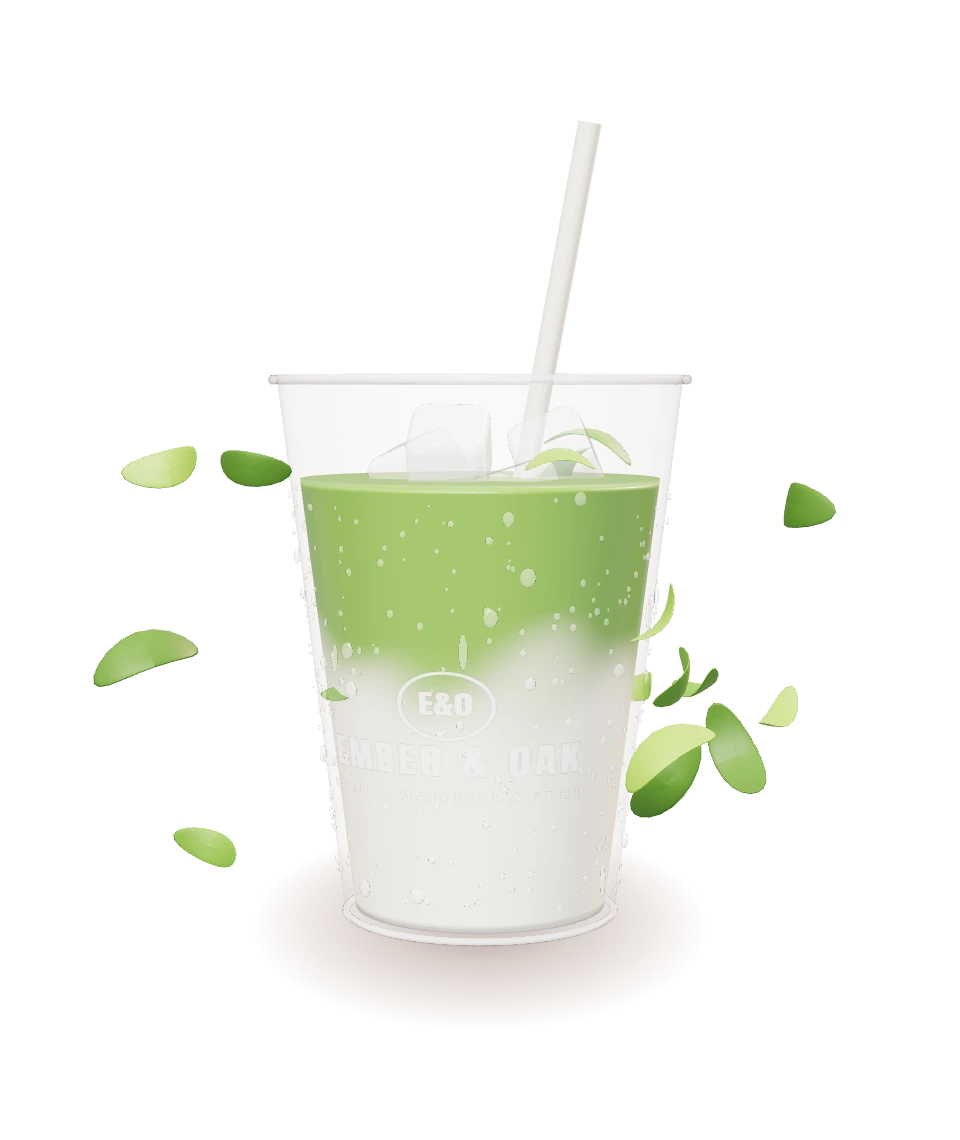
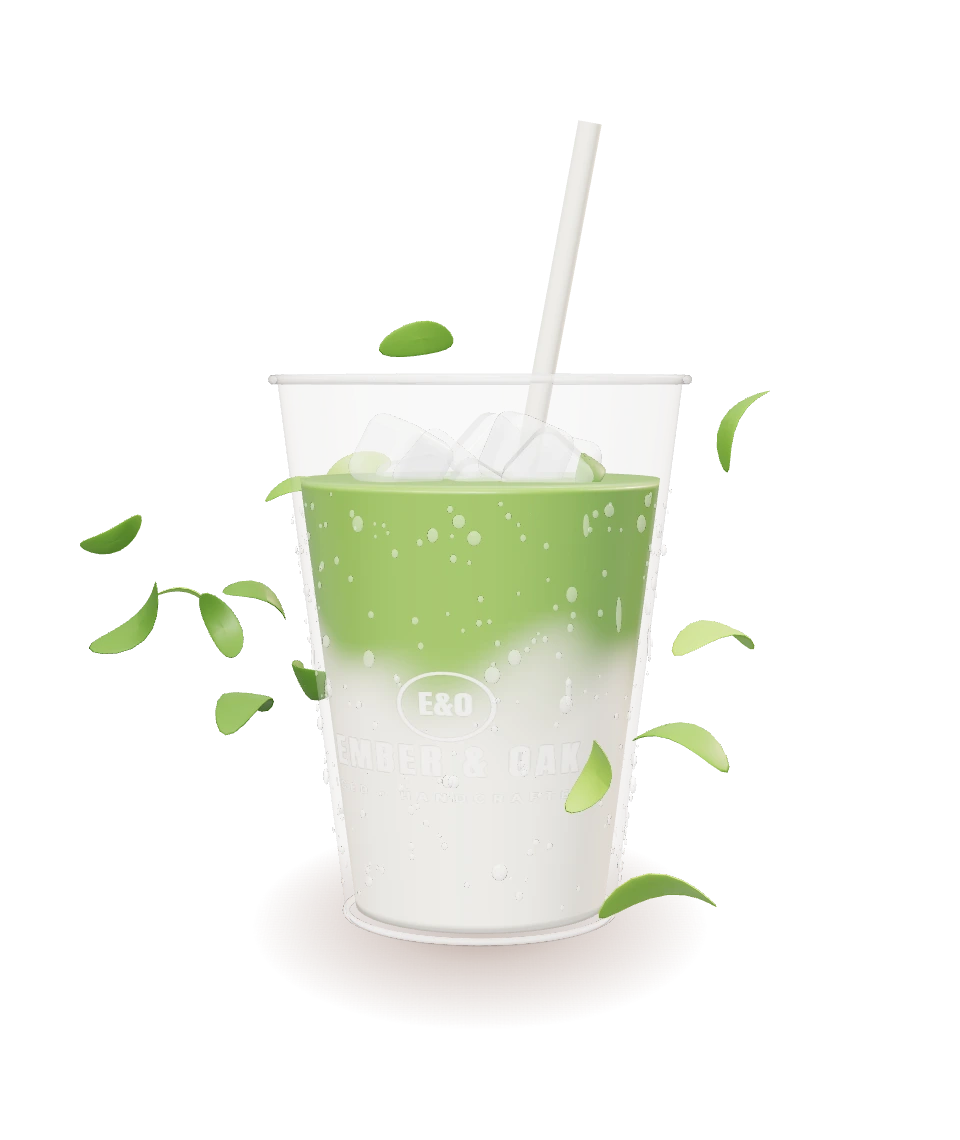
Ice drop and piped whipped cream animations, more ice
- 8 ice cubes (up from 5). On a drink change the old ice clears, then
  fresh cubes tumble in one by one, bounce into a pile on the bottom,
  and lift off to float as the drink pours in
- Whipped cream is piped: a soft base appears, then a star-ridged bead
  winds up the helix to the peak, then the drizzle lands. The swirl is
  now a TubeGeometry with nozzle ridges so it can be drawn progressively
- Carousel auto-advance waits until the current pour has finished
- Drink images re-rendered with the new ice

diff --git a/scene.js b/scene.js
@@ -246,16 +246,13 @@ function foamGeometry() {
   return g;
 }
 
+const WHIP_SEGMENTS = 260, WHIP_RADIAL = 24, WHIP_R = 0.1;
+const whipTaper = (t) => 1 - 0.35 * t * t; // the bead thins toward the peak
+
 function whipGeometry() {
-  // Piped cream: a star-shaped profile extruded along a narrowing helix.
-  const star = new THREE.Shape();
-  const P = 8;
-  for (let i = 0; i <= P * 2; i++) {
-    const a = (i / (P * 2)) * Math.PI * 2;
-    const r = i % 2 ? 0.075 : 0.11;
-    const x = Math.cos(a) * r, y = Math.sin(a) * r;
-    if (i === 0) star.moveTo(x, y); else star.lineTo(x, y);
-  }
+  // Piped cream: a tube along a narrowing helix, with star-nozzle ridges
+  // pushed into it. TubeGeometry builds its triangles in order along the
+  // path, so the swirl can be "piped" by growing the draw range.
   const pts = [];
   const TURNS = 3.2, N = 160;
   for (let i = 0; i <= N; i++) {
@@ -265,10 +262,30 @@ function whipGeometry() {
     pts.push(new THREE.Vector3(Math.cos(a) * r, 0.08 + t * 0.5, Math.sin(a) * r));
   }
   const curve = new THREE.CatmullRomCurve3(pts);
-  const g = new THREE.ExtrudeGeometry(star, { steps: 320, bevelEnabled: false, extrudePath: curve });
+  const g = new THREE.TubeGeometry(curve, WHIP_SEGMENTS, WHIP_R, WHIP_RADIAL, false);
+  const p = g.attributes.position, n = g.attributes.normal;
+  const v = new THREE.Vector3(), nv = new THREE.Vector3();
+  for (let i = 0; i < p.count; i++) {
+    const seg = Math.floor(i / (WHIP_RADIAL + 1)), rad = i % (WHIP_RADIAL + 1);
+    v.fromBufferAttribute(p, i);
+    nv.fromBufferAttribute(n, i);
+    const center = v.clone().addScaledVector(nv, -WHIP_R);
+    const ridge = 1 + 0.28 * Math.cos((rad / WHIP_RADIAL) * Math.PI * 2 * 8); // 8-point star nozzle
+    v.copy(center).addScaledVector(nv, WHIP_R * ridge * whipTaper(seg / WHIP_SEGMENTS));
+    p.setXYZ(i, v.x, v.y, v.z);
+  }
+  g.computeVertexNormals();
   g.userData.curve = curve;
   return g;
 }
+
+const easeOutBounce = (x) => {
+  const n = 7.5625, d = 2.75;
+  if (x < 1 / d) return n * x * x;
+  if (x < 2 / d) return n * (x -= 1.5 / d) * x + 0.75;
+  if (x < 2.5 / d) return n * (x -= 2.25 / d) * x + 0.9375;
+  return n * (x -= 2.625 / d) * x + 0.984375;
+};
 
 function drizzleOnFoam(foamTop, rTop) {
   // zig-zag lines of sauce across the foam dome
@@ -376,12 +393,25 @@ export function buildIcedCup() {
   const iceMat = new THREE.MeshPhysicalMaterial({
     color: '#f4fbff', roughness: 0.12, clearcoat: 1, transparent: true, opacity: 0.6, depthWrite: false,
   });
-  const iceGeo = new RoundedBoxGeometry(0.3, 0.3, 0.3, 3, 0.06);
-  const ice = [[0.18, 1.62, 0.15], [-0.22, 1.7, 0.05], [0.02, 1.56, -0.25], [-0.06, 1.84, 0.28], [0.28, 1.78, -0.12]].map((p) => {
+  const iceGeo = new RoundedBoxGeometry(0.28, 0.28, 0.28, 3, 0.06);
+  // Each cube has a resting spot in a little pile on the bottom of the empty
+  // cup, and a spot where it floats once the cup is full.
+  const PILE = [
+    [-0.16, 0.17, -0.12], [0.16, 0.17, -0.14], [-0.1, 0.17, 0.17], [0.17, 0.17, 0.14],
+    [0.02, 0.43, -0.02], [-0.19, 0.45, 0.04], [0.19, 0.46, 0.06], [0.0, 0.44, 0.22],
+  ];
+  const ice = PILE.map((rest, i) => {
     const m = new THREE.Mesh(iceGeo, iceMat);
-    m.position.set(...p);
-    m.rotation.set(rand(0, 3), rand(0, 3), rand(0, 3));
-    m.userData.baseY = p[1];
+    const a = (i / PILE.length) * Math.PI * 2 + rand(-0.2, 0.2);
+    const r = i % 2 ? 0.38 : 0.18;
+    m.userData = {
+      rest: new THREE.Vector3(...rest),
+      float: new THREE.Vector3(Math.cos(a) * r, 0.09 - (i % 3) * 0.09, Math.sin(a) * r), // y is relative to the surface; poke up through it
+      rot: new THREE.Euler(rand(0, 3), rand(0, 3), rand(0, 3)),
+      spin: new THREE.Vector3(rand(-6, 6), rand(-6, 6), rand(-6, 6)),
+      dropAt: i * 0.075,
+    };
+    m.rotation.copy(m.userData.rot);
     m.renderOrder = 1;
     g.add(m);
     return m;
@@ -424,6 +454,7 @@ export function buildIcedCup() {
   const foamGeo = foamGeometry();
   const foam = new THREE.Mesh(foamGeo, creamMat);
   const whipGeo = whipGeometry();
+  const whipCurve = whipGeo.userData.curve;
   const whip = new THREE.Group();
   whip.add(new THREE.Mesh(whipGeo, creamMat));
   const whipBase = new THREE.Mesh(foamGeo, creamMat);
@@ -432,6 +463,20 @@ export function buildIcedCup() {
   const tip = new THREE.Mesh(new THREE.ConeGeometry(0.09, 0.16, 16), creamMat);
   tip.position.y = 0.66;
   whip.add(tip);
+  // The nozzle bead: rounds off the growing end of the swirl while it's piped.
+  const bead = new THREE.Mesh(new THREE.SphereGeometry(WHIP_R * 1.05, 20, 14), creamMat);
+  whip.add(bead);
+
+  function setWhip(p) {
+    const segs = Math.round(p * WHIP_SEGMENTS);
+    whipGeo.setDrawRange(0, segs * WHIP_RADIAL * 6);
+    bead.visible = segs > 0;
+    if (bead.visible) {
+      const k = segs / WHIP_SEGMENTS;
+      bead.position.copy(whipCurve.getPointAt(k));
+      bead.scale.setScalar(whipTaper(k));
+    }
+  }
   const drizzleFoam = new THREE.Mesh(drizzleOnFoam(foamGeo.userData.top, foamGeo.userData.rTop * 0.92), sauceMat);
   const drizzleWhip = new THREE.Mesh(drizzleOnWhip(whipGeo.userData.curve), sauceMat);
   topping.add(foam, whip, drizzleFoam, drizzleWhip);
@@ -467,13 +512,16 @@ export function buildIcedCup() {
 
   /*
    * Pour timeline (seconds from the start of a drink change):
-   *   0.00–0.35  drain: old drink empties, topping shrinks, straw lifts out
-   *   0.35–1.95  pour: the bottom layer pours in first, then the top layer,
-   *              which blooms down into it; ice floats on the rising surface
-   *   1.95–2.15  the stream's tail falls into the cup
-   *   1.95–2.65  topping grows back, straw drops in
+   *   0.00–0.35  drain: old drink empties, old ice clears, topping shrinks,
+   *              straw lifts out
+   *   0.40–1.45  ice: fresh cubes tumble in one by one and bounce into a pile
+   *   1.30–2.90  pour: the bottom layer pours in first, then the top layer,
+   *              which blooms down into it; the ice lifts off and floats
+   *   2.90–3.10  the stream's tail falls into the cup
+   *   2.95–4.60  straw drops in; foam pops on, or whipped cream is piped
+   *              in a swirl, then the drizzle lands
    */
-  const T = { drainEnd: 0.35, pourEnd: 1.95, tailEnd: 2.15, strawIn: 2.0, end: 2.7 };
+  const T = { drainEnd: 0.35, iceStart: 0.4, iceFall: 0.55, pourStart: 1.3, pourEnd: 2.9, tailEnd: 3.1, strawIn: 2.95, toppingStart: 2.9, end: 4.6 };
   const pour = { t: -1, level: 1, topping: null, wait: 0 };
   const surfaceY = () => BASE + (FILL - BASE) * pour.level;
   let shownSplit = 0.5;
@@ -499,6 +547,7 @@ export function buildIcedCup() {
       paint();
       applyTopping(drink.topping);
       setTopping(1);
+      finishWhip();
       straw.position.y = STRAW_Y;
       straw.visible = true;
       layout(0);
@@ -526,37 +575,86 @@ export function buildIcedCup() {
     applyTopping(pour.topping);
   }
 
-  // Place everything that depends on the liquid level.
-  function layout(time) {
+  function finishWhip() {
+    setWhip(1);
+    tip.scale.setScalar(1);
+    whipBase.scale.set(1, 0.7, 1);
+    drizzleWhip.visible = whip.visible && !!pour.topping?.drizzle;
+  }
+
+  // Place everything that depends on the liquid level and the ice drop.
+  // t is the time into the current drink change (Infinity when idle).
+  function layout(time, t = Infinity) {
     liquid.visible = pour.level > 0.04;
     liquid.scale.y = Math.max(pour.level, 0.01);
-    const drop = (FILL - BASE) * (1 - pour.level);
+    const surface = surfaceY();
     ice.forEach((m, i) => {
-      // Floats on the surface; settles on the bottom when the cup is empty.
-      m.position.y = Math.max(0.16 + i * 0.03, m.userData.baseY - drop) + Math.sin(time * 1.3 + i * 1.7) * 0.02 * pour.level;
+      const u = m.userData;
+      // Old ice clears out while the cup drains.
+      if (t < T.drainEnd) {
+        m.visible = true;
+        m.scale.setScalar(Math.max(1 - t / T.drainEnd, 1e-3));
+        return;
+      }
+      m.scale.setScalar(1);
+      // New ice tumbles in from above and bounces into a pile.
+      const fall = (t - T.iceStart - u.dropAt) / T.iceFall;
+      m.visible = fall >= 0;
+      if (fall < 0) return;
+      if (fall < 1) {
+        const k = easeOutBounce(fall);
+        m.position.set(u.rest.x, lerp(CUP_H + 2.6, u.rest.y, k), u.rest.z);
+        const tumble = (1 - Math.min(1, fall * 1.4)) * 1.2;
+        m.rotation.set(u.rot.x + u.spin.x * tumble, u.rot.y + u.spin.y * tumble, u.rot.z + u.spin.z * tumble);
+        return;
+      }
+      // Resting in the pile until the rising liquid lifts it to float.
+      m.rotation.copy(u.rot);
+      const floatY = surface + u.float.y + Math.sin(time * 1.3 + i * 1.7) * 0.02 * pour.level;
+      const lift = clamp((floatY - u.rest.y) / 0.7, 0, 1);
+      m.position.set(
+        lerp(u.rest.x, u.float.x, lift),
+        Math.max(u.rest.y, floatY),
+        lerp(u.rest.z, u.float.z, lift),
+      );
     });
   }
 
   function update(dt, time) {
     if (pour.t < 0 || pour.wait > 0) {
       pour.wait -= dt;
-      layout(time);
+      layout(time, pour.t < 0 ? Infinity : pour.t); // a fresh cup stays empty while it waits
       return;
     }
     const prev = pour.t;
     pour.t += dt;
     const t = pour.t;
-    const pourK = clamp((t - T.drainEnd) / (T.pourEnd - T.drainEnd), 0, 1);
+    const pourK = clamp((t - T.pourStart) / (T.pourEnd - T.pourStart), 0, 1);
 
     // Liquid level
     if (t < T.drainEnd) pour.level = 1 - ease.inOut(t / T.drainEnd);
+    else if (t < T.pourStart) pour.level = 0;
     else pour.level = Math.min(1, ease.out(pourK) * 0.15 + pourK * 0.85);
-    if (prev < T.drainEnd && t >= T.drainEnd) switchColors();
+    if (prev < T.drainEnd && t >= T.drainEnd) {
+      switchColors();
+      setWhip(0);
+      tip.scale.setScalar(1e-3);
+      drizzleWhip.visible = false;
+    }
 
     // Topping out, then back in once the pour is done
+    const tw = t - T.toppingStart;
     if (t < T.drainEnd) setTopping(1 - clamp(t / 0.22, 0, 1));
-    else if (t < T.pourEnd) setTopping(0);
-    else setTopping(ease.outBack(clamp((t - T.pourEnd) / 0.7, 0, 1)));
+    else if (tw < 0) setTopping(0);
+    else if (pour.topping?.type === 'whip') {
+      // Whipped cream is piped: a soft base, then the swirl winds up to a peak.
+      setTopping(1);
+      const b = ease.outBack(clamp(tw / 0.3, 0, 1));
+      whipBase.scale.set(Math.max(b, 1e-3), Math.max(0.7 * b, 1e-3), Math.max(b, 1e-3));
+      setWhip(ease.inOut(clamp((tw - 0.15) / 1.15, 0, 1)));
+      tip.scale.setScalar(Math.max(ease.outBack(clamp((tw - 1.25) / 0.3, 0, 1)), 1e-3));
+      drizzleWhip.visible = !!pour.topping.drizzle && tw > 1.4;
+    } else setTopping(ease.outBack(clamp(tw / 0.7, 0, 1)));
 
     // Straw lifts out, then drops back in
     if (t < T.drainEnd) straw.position.y = STRAW_Y + ease.inOut(t / T.drainEnd) * 3;
@@ -567,7 +665,7 @@ export function buildIcedCup() {
     // Two-stage pour: bottom layer first, then the top layer blooms down into it
     const topStart = 1 - tgt.split * 0.85; // when the top layer starts pouring
     const pouringTop = pourK >= topStart;
-    if (t >= T.drainEnd) {
+    if (t >= T.pourStart) {
       const bloom = clamp((pourK - topStart) / (1 - topStart + 0.25), 0, 1);
       const split = lerp(1, tgt.split, ease.out(bloom));
       if (Math.abs(split - shownSplit) > 0.002) {
@@ -578,14 +676,14 @@ export function buildIcedCup() {
 
     // Stream
     const surface = surfaceY();
-    stream.visible = t >= T.drainEnd && t < T.tailEnd;
+    stream.visible = t >= T.pourStart && t < T.tailEnd;
     if (stream.visible) {
       const tail = clamp((t - T.pourEnd) / (T.tailEnd - T.pourEnd), 0, 1);
       const top = lerp(STREAM_TOP, surface, ease.inOut(tail));
       stream.position.y = top;
       stream.scale.y = Math.max(top - surface, 0.001);
       const wobble = 1 + 0.08 * Math.sin(time * 38) + 0.05 * Math.sin(time * 23 + 1);
-      const thin = t > T.pourEnd ? 1 - tail * 0.6 : Math.min(1, (t - T.drainEnd) / 0.12);
+      const thin = t > T.pourEnd ? 1 - tail * 0.6 : Math.min(1, (t - T.pourStart) / 0.12);
       stream.scale.x = stream.scale.z = wobble * thin;
       streamMat.color.copy(pouringTop ? cur.top : cur.bottom);
     }
@@ -593,7 +691,7 @@ export function buildIcedCup() {
     // Ripples spreading from where the stream lands
     ripples.forEach((r, i) => {
       const phase = ((t * 2.6 + i / ripples.length) % 1);
-      r.visible = t >= T.drainEnd + 0.1 && t < T.pourEnd && pour.level > 0.05;
+      r.visible = t >= T.pourStart + 0.1 && t < T.pourEnd && pour.level > 0.05;
       if (!r.visible) return;
       const rad = 0.08 + phase * 0.45;
       r.position.set(stream.position.x, surface + 0.01, stream.position.z);
@@ -601,11 +699,14 @@ export function buildIcedCup() {
       r.material.opacity = 0.45 * (1 - phase);
     });
 
-    layout(time);
-    if (t >= T.end) pour.t = -1;
+    layout(time, t);
+    if (t >= T.end) {
+      pour.t = -1;
+      if (pour.topping?.type === 'whip') finishWhip();
+    }
   }
 
-  return { group: g, setDrink, update };
+  return { group: g, setDrink, update, busy: () => pour.t >= 0 };
 }
 
 /**
@@ -641,6 +742,7 @@ export function createProduct() {
   return {
     group, spinner, hot, iced, shadow,
     setDrink: icedCup.setDrink,
+    busy: icedCup.busy, // true while a drink is draining, pouring or being topped
     update(dt, time) {
       if (iced.visible) icedCup.update(dt, time);
       if (hot.visible) hotCup.userData.update(dt, time);

diff --git a/menu.js b/menu.js
@@ -131,7 +131,7 @@ let drinksVisible = false;
 new IntersectionObserver(([e]) => { drinksVisible = e.isIntersecting; }, { threshold: 0.6 }).observe(drinksEl);
 if (!reduceMotion) {
   setInterval(() => {
-    const busy = spin.drag || document.body.classList.contains('drawer-open') || drinksEl.matches(':hover');
+    const busy = spin.drag || document.body.classList.contains('drawer-open') || drinksEl.matches(':hover') || product?.busy();
     if (drinksVisible && !busy && performance.now() - lastInteraction > 8000) setDrink(current + 1, { auto: true });
   }, 6000);
 }
